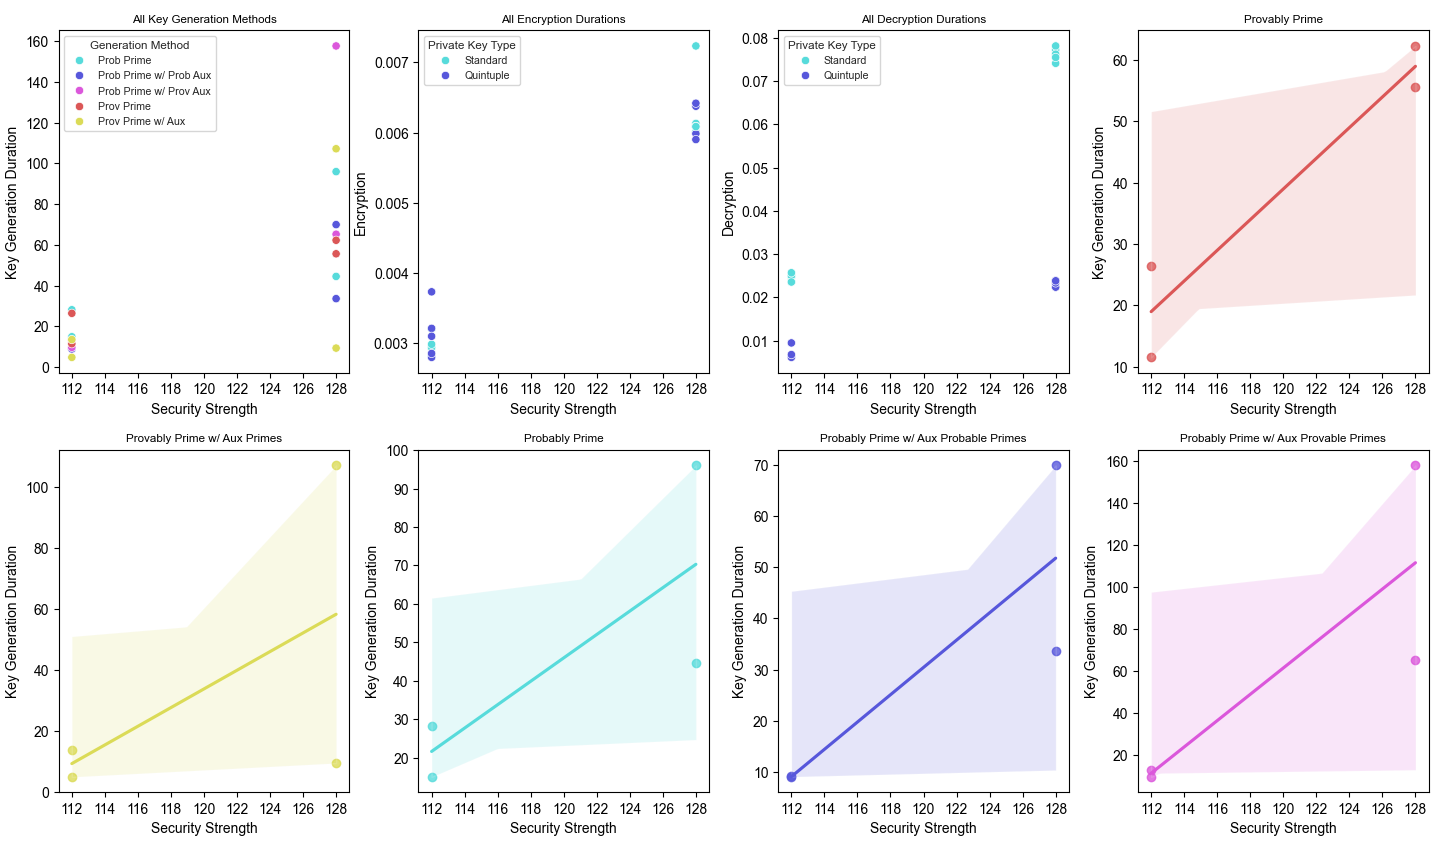
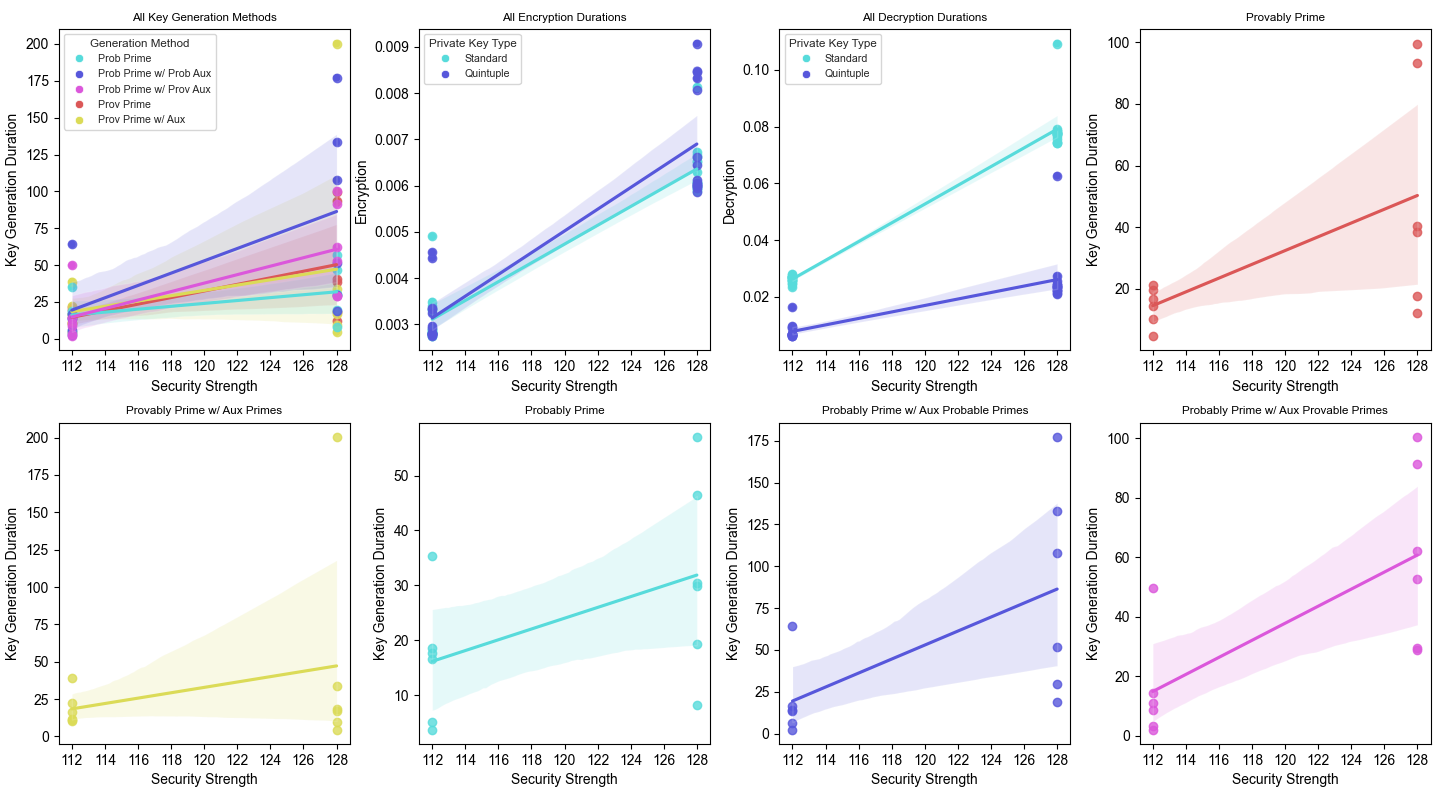
Duration Graph updates

diff --git a/CryptographySchemes/OutputImages/RSA_KeyGeneration_DurationGraphs.py b/CryptographySchemes/OutputImages/RSA_KeyGeneration_DurationGraphs.py
@@ -1,0 +1,250 @@
+import unittest
+from HelperFunctions.IntegerHandler import IntegerHandler
+from CryptographySchemes.SecurityStrength import SecurityStrength, SecurityStrengthDetails
+from CryptographySchemes.RSA.RSA_Keys import RSA_KeyGeneration, RSA_PublicKey, RSA_PrivateKey, RSA_PrivateKey_QuintupleForm, RSA_PrivateKey_Type
+from CryptographySchemes.RSA.RSA_Primitives import RSA
+from CryptographySchemes.HashingAlgorithms.ApprovedHashFunctions import ApprovedHashFunction, ApprovedHashFunctions
+import time
+import pandas as pd
+from matplotlib import pyplot as plt
+import seaborn as sns
+
+
+prime_durations={
+    "Security Strength":[],
+    "Key Generation Duration": [],
+    "Generation Method":[],
+    "Encryption":[],
+    "Decryption":[],
+    "Private Key Type":[]
+}
+
+class RSA_KeyGeneration_UnitTests(unittest.TestCase):
+    def test_provably_prime(self):
+        '''
+        This method tests the generation of primes which are provably prime as RSA keys
+        '''
+        for i in range(0, len(strengths)):
+            for j in range(0, number_of_iterations):
+                test_case_number = i * number_of_iterations + j + 1
+                with self.subTest(f"Provably Prime Key Generation : Test Case {test_case_number} With Security Strength {strengths[i].security_strength}"):
+                    print("- - - - - - - - - - - -")
+                    print(f"Provably Prime Key Generation : Test Case {test_case_number} With Security Strength {strengths[i].security_strength}")
+                    
+                    rsa_bit_length_for_strength = strengths[i].integer_factorization_cryptography
+                    if j % 2 == 0: private_key_type = RSA_PrivateKey_Type.Standard
+                    else : private_key_type = RSA_PrivateKey_Type.Quint
+                    start_time = time.time()
+                    public_key, private_key = RSA_KeyGeneration.generateRSAKeyPair_ProvablePrimes(security_strength=strengths[i].security_strength, hash_function=ApprovedHashFunctions.SHA_512_Hash.value, private_key_type=private_key_type, is_debug=False)
+                    generation_duration = time.time() - start_time
+                    successful_generation = self.verifyKeyGeneration(strengths, i, public_key, private_key, generation_duration)
+
+                    encryption_duration, decryption_duration, successful_encryption, successful_decryption = self.verifyEncryptionDecryption(little_endian, strengths, i, rsa_bit_length_for_strength, public_key, private_key)
+
+                    if successful_generation and successful_encryption and successful_decryption:
+                        generation_method = "Provably Prime"
+                        self.saveIterationData(i, private_key_type, generation_duration, encryption_duration, decryption_duration, generation_method)
+
+    def saveIterationData(self, i, private_key_type, generation_duration, encryption_duration, decryption_duration, generation_method):
+        prime_durations["Encryption"].append(encryption_duration)
+        prime_durations["Decryption"].append(decryption_duration)
+        prime_durations["Private Key Type"].append("Standard" if private_key_type==0 else "Quintuple")
+        prime_durations["Generation Method"].append(generation_method)
+        prime_durations["Key Generation Duration"].append(generation_duration)
+        prime_durations["Security Strength"].append(strengths[i].security_strength)
+
+    def test_provably_prime_with_auxillary_primes(self):
+        '''
+        This method tests the generation of primes which are provably prime with auxillary primes as RSA keys
+        '''
+
+        for i in range(0, len(strengths)):
+            rsa_bit_length_for_strength = strengths[i].integer_factorization_cryptography                    
+            hash_function = ApprovedHashFunctions.SHA_512_Hash.value
+            
+            for j in range(0, number_of_iterations):
+                test_case_number = i * number_of_iterations + j + 1
+                with self.subTest(f"Provably Prime With Auxillary Primes Key Generation : Test Case {test_case_number} With Security Strength {strengths[i].security_strength}"):
+                    print("- - - - - - - - - - - -")
+                    print(f"Provably Prime Key Generation With Auxillary Primes : Test Case {test_case_number} With Security Strength {strengths[i].security_strength}")
+                    bitlens = None
+                    if j % 2 == 0: private_key_type = RSA_PrivateKey_Type.Standard
+                    else : private_key_type = RSA_PrivateKey_Type.Quint
+                    start_time = time.time()
+                    public_key, private_key = RSA_KeyGeneration.generateRSAKeyPair_ProvablePrimes_AuxillaryPrimes(bitlens=bitlens,security_strength=strengths[i].security_strength, hash_function=hash_function, private_key_type=private_key_type, is_debug=False)
+                    generation_duration = time.time() - start_time
+                    successful_generation = self.verifyKeyGeneration(strengths, i, public_key, private_key, generation_duration)
+                    encryption_duration, decryption_duration, successful_encryption, successful_decryption = self.verifyEncryptionDecryption(little_endian, strengths, i, rsa_bit_length_for_strength, public_key, private_key)
+
+                    if successful_generation and successful_encryption and successful_decryption:
+                        generation_method = "Provably Prime, Aux Primes"
+                        self.saveIterationData(i, private_key_type, generation_duration, encryption_duration, decryption_duration, generation_method)
+
+    def test_probably_prime(self):
+        '''
+        This method tests the generation of primes which are probably prime as RSA keys
+        '''
+
+        for i in range(0, len(strengths)):
+            rsa_bit_length_for_strength = strengths[i].integer_factorization_cryptography
+            for j in range(0, number_of_iterations):
+                test_case_number = i * number_of_iterations + j + 1
+                with self.subTest(f"Probably Prime Key Generation : Test Case {test_case_number} With Security Strength {strengths[i].security_strength}"):
+                    print("- - - - - - - - - - - -")
+                    print(f"Probably Prime Key Generation : Test Case {test_case_number} With Security Strength {strengths[i].security_strength}")
+                    if j % 2 == 0: private_key_type = RSA_PrivateKey_Type.Standard
+                    else : private_key_type = RSA_PrivateKey_Type.Quint
+                    start_time = time.time()
+                    public_key, private_key = RSA_KeyGeneration.generateRSAKeyPair_ProbablePrimes(security_strength=strengths[i].security_strength, private_key_type=private_key_type, is_debug=False)
+                    generation_duration = time.time() - start_time
+                    successful_generation = self.verifyKeyGeneration(strengths, i, public_key, private_key, generation_duration)
+
+                    encryption_duration, decryption_duration, successful_encryption, successful_decryption = self.verifyEncryptionDecryption(little_endian, strengths, i, rsa_bit_length_for_strength, public_key, private_key)
+
+                    if successful_generation and successful_encryption and successful_decryption:
+                        generation_method = "Probably Prime"
+                        self.saveIterationData(i, private_key_type, generation_duration, encryption_duration, decryption_duration, generation_method)
+
+    def test_probably_prime_with_prob_aux(self):
+        '''
+        This method tests the generation of primes which are probably prime as RSA keys
+        '''
+
+        for i in range(0, len(strengths)):
+            rsa_bit_length_for_strength = strengths[i].integer_factorization_cryptography
+            for j in range(0, number_of_iterations):
+                test_case_number = i * number_of_iterations + j + 1
+                with self.subTest(f"Probably Prime With Probably Prime Auxillary Primes Key Generation : Test Case {test_case_number} With Security Strength {strengths[i].security_strength}"):
+                    print("- - - - - - - - - - - -")
+                    print(f"Probably Prime With Probably Prime Auxillary Primes Key Generation : Test Case {test_case_number} With Security Strength {strengths[i].security_strength}")
+                    if j % 2 == 0: private_key_type = RSA_PrivateKey_Type.Standard
+                    else : private_key_type = RSA_PrivateKey_Type.Quint
+                    bitlens = None
+                    start_time = time.time()
+                    public_key, private_key = RSA_KeyGeneration.generateRSAKeyPair_ProbablePrimes_AuxillaryProbablePrimes(bitlens=bitlens, security_strength=strengths[i].security_strength, private_key_type=private_key_type, is_debug=False)
+                    generation_duration = time.time() - start_time
+                    successful_generation = self.verifyKeyGeneration(strengths, i, public_key, private_key, generation_duration)
+
+                    encryption_duration, decryption_duration, successful_encryption, successful_decryption = self.verifyEncryptionDecryption(little_endian, strengths, i, rsa_bit_length_for_strength, public_key, private_key)
+
+                    if successful_generation and successful_encryption and successful_decryption:
+                        generation_method = "Probably Prime, Probable Aux Primes"
+                        self.saveIterationData(i, private_key_type, generation_duration, encryption_duration, decryption_duration, generation_method)
+
+    
+    def test_probably_prime_with_prov_aux(self):
+        '''
+        This method tests the generation of primes which are probably prime as RSA keys
+        '''
+
+        for i in range(0, len(strengths)):
+            rsa_bit_length_for_strength = strengths[i].integer_factorization_cryptography
+            for j in range(0, number_of_iterations):
+                test_case_number = i * number_of_iterations + j + 1
+                with self.subTest(f"Probably Prime With Provably Prime Auxillary Primes Key Generation : Test Case {test_case_number} With Security Strength {strengths[i].security_strength}"):
+                    print("- - - - - - - - - - - -")
+                    print(f"Probably Prime With Provably Prime Auxillary Primes Key Generation : Test Case {test_case_number} With Security Strength {strengths[i].security_strength}")
+                    if j % 2 == 0: private_key_type = RSA_PrivateKey_Type.Standard
+                    else : private_key_type = RSA_PrivateKey_Type.Quint
+                    bitlens = None
+                    start_time = time.time()
+                    public_key, private_key = RSA_KeyGeneration.generateRSAKeyPair_ProbablePrimes_AuxillaryProvablePrimes(bitlens=bitlens, security_strength=strengths[i].security_strength, private_key_type=private_key_type, is_debug=False)
+                    generation_duration = time.time() - start_time
+                    successful_generation = self.verifyKeyGeneration(strengths, i, public_key, private_key, generation_duration)
+
+                    encryption_duration, decryption_duration, successful_encryption, successful_decryption = self.verifyEncryptionDecryption(little_endian, strengths, i, rsa_bit_length_for_strength, public_key, private_key)
+
+                    if successful_generation and successful_encryption and successful_decryption:
+                        generation_method = "Probably Prime, Provable Aux Primes"
+                        self.saveIterationData(i, private_key_type, generation_duration, encryption_duration, decryption_duration, generation_method)
+
+    def verifyEncryptionDecryption(self, little_endian:bool, strengths:list[SecurityStrengthDetails], i:int, rsa_bit_length_for_strength:int, public_key:RSA_PublicKey, private_key:RSA_PrivateKey):
+        '''
+        This method verifies the encryption and decryption operations can be successfully completed with the generated key pair
+        '''
+        
+        if strengths[i] == SecurityStrength.s112.value:
[1 lines of base64/hex data omitted]
+        elif strengths[i] == SecurityStrength.s128.value:
[1 lines of base64/hex data omitted]
+        elif strengths[i] == SecurityStrength.s192.value:
[1 lines of base64/hex data omitted]
+        elif strengths[i] == SecurityStrength.s256.value:
[1 lines of base64/hex data omitted]
+                    
+        plain = IntegerHandler.fromHexString(pt, little_endian)
+        start_time = time.time()
+        encrypted = RSA.RSA_EncryptionPrimitive(public_key, plain, bit_length=rsa_bit_length_for_strength)
+        encryption_duration = time.time() - start_time
+        start_time = time.time()
+        decrypted = RSA.RSA_DecryptionPrimitive(private_key, encrypted, bit_length=rsa_bit_length_for_strength)
+        decryption_duration = time.time() - start_time
+        successful_encryption = plain.getValue() != encrypted.getValue()
+        successful_decryption = plain.getValue() == decrypted.getValue()
+        if successful_encryption:
+            print(f"The encryption was successful in {encryption_duration:.4f} seconds")
+        if successful_decryption:
+            print(f"The decryption was successful in {decryption_duration:.4f} seconds")
+        self.assertTrue(successful_decryption)
+        self.assertTrue(successful_encryption)
+        return encryption_duration,decryption_duration,successful_encryption,successful_decryption
+
+    def verifyKeyGeneration(self, strengths:list[SecurityStrengthDetails], i:int, public_key:RSA_PublicKey, private_key:RSA_PrivateKey, generation_duration:float):
+        '''
+        This method verifies the successful generation of the public and private RSA keys
+        '''
+        
+        self.assertIsNotNone(public_key)
+        self.assertIsNotNone(private_key)
+        successful_generation = public_key.n == private_key.n
+        if successful_generation:
+            print(f"The RSA Keys for security strength {strengths[i].security_strength} were generated in {generation_duration:.4f} seconds")
+        self.assertEqual( public_key.n.getValue(), private_key.n.getValue())
+        return successful_generation
+
+if __name__ == '__main__':
+    
+    number_of_iterations = 2
+    strengths_lists = [[SecurityStrength.s112.value],[SecurityStrength.s128.value],[SecurityStrength.s192.value],[SecurityStrength.s256.value]]
+    for j in range (0, 3):
+        for i in range(0, 4):
+        # strengths = [SecurityStrength.s112.value, SecurityStrength.s128.value]
+        # strengths = [SecurityStrength.s112.value, SecurityStrength.s128.value, SecurityStrength.s192.value]
+            prime_durations={
+                "Security Strength":[],
+                "Key Generation Duration": [],
+                "Generation Method":[],
+                "Encryption":[],
+                "Decryption":[],
+                "Private Key Type":[]
+            }
+            strengths = strengths_lists[i]
+            little_endian = False
+            unittest.main(exit=False)
+            prime_df = pd.DataFrame.from_dict(prime_durations)
+            print(prime_df)
+            
+            # fig, axes = plt.subplots(nrows=1, ncols=1, sharey=False)
+            # fig.set_figwidth(8)
+            # fig.set_figheight(8)
+
+            # bright_palette = sns.hls_palette(h=.5)
+            # sns.set_context("paper")
+            # sns.set_theme(style="whitegrid", palette=bright_palette, font_scale=1)
+
+            # sns.scatterplot(data=prime_df, x="Security Strength", y="Key Generation Duration", ax=axes, hue="Generation Method", palette=bright_palette)
+            # sns.regplot(data=prime_df[prime_df["Generation Method"] == "Provably Prime"], x="Security Strength", y="Key Generation Duration", ax=axes, color=bright_palette[3])
+            # sns.regplot(data=prime_df[prime_df["Generation Method"] == "Provably Prime, Aux Primes"], x="Security Strength", y="Key Generation Duration", ax=axes, color=bright_palette[4])
+            # sns.regplot(data=prime_df[prime_df["Generation Method"] == "Probably Prime"], x="Security Strength", y="Key Generation Duration", ax=axes, color=bright_palette[0])
+            # sns.regplot(data=prime_df[prime_df["Generation Method"] == "Probably Prime, Probable Aux Primes"], x="Security Strength", y="Key Generation Duration", ax=axes, color=bright_palette[1])
+            # sns.regplot(data=prime_df[prime_df["Generation Method"] == "Probably Prime, Provable Aux Primes"], x="Security Strength", y="Key Generation Duration", ax=axes, color=bright_palette[2])
+            if i+j == 0:
+                add_header = True
+            else:
+                add_header = False
+            prime_df.to_csv('RSA_KeyGeneration_DurationsData.csv', mode='a', index=False, header=add_header)
+  
+    # plt.tight_layout()
+    # plt.show()
+
+
